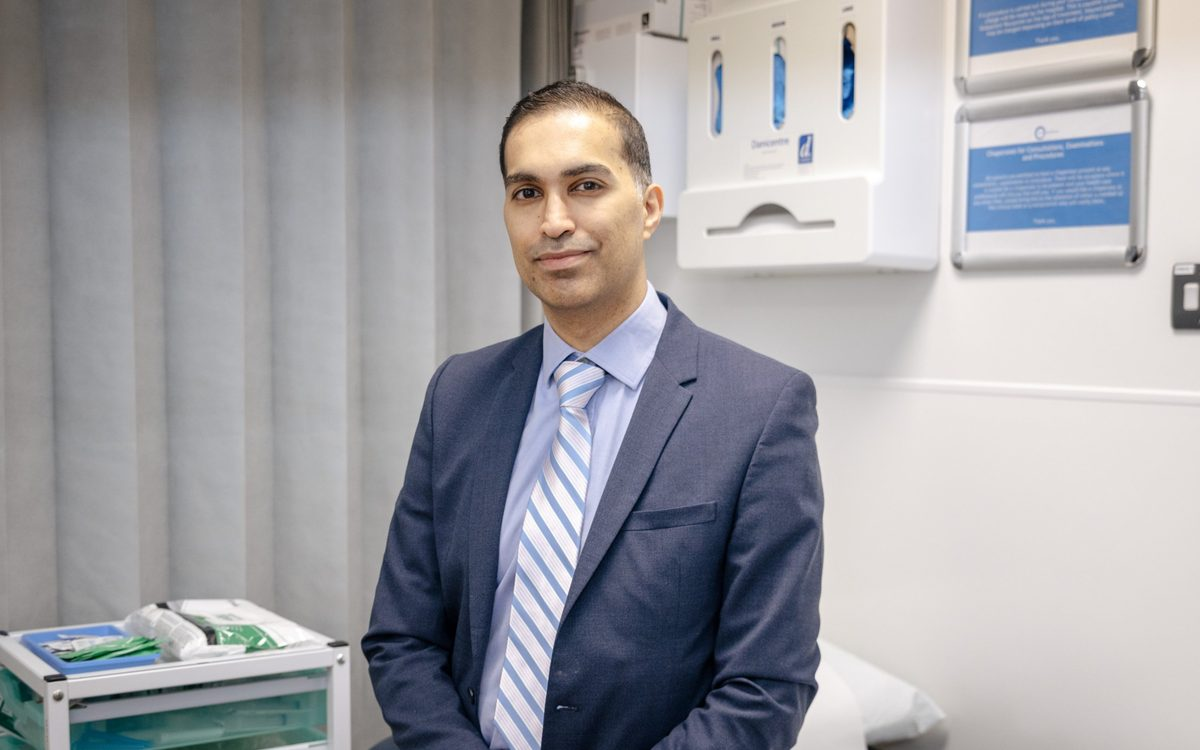
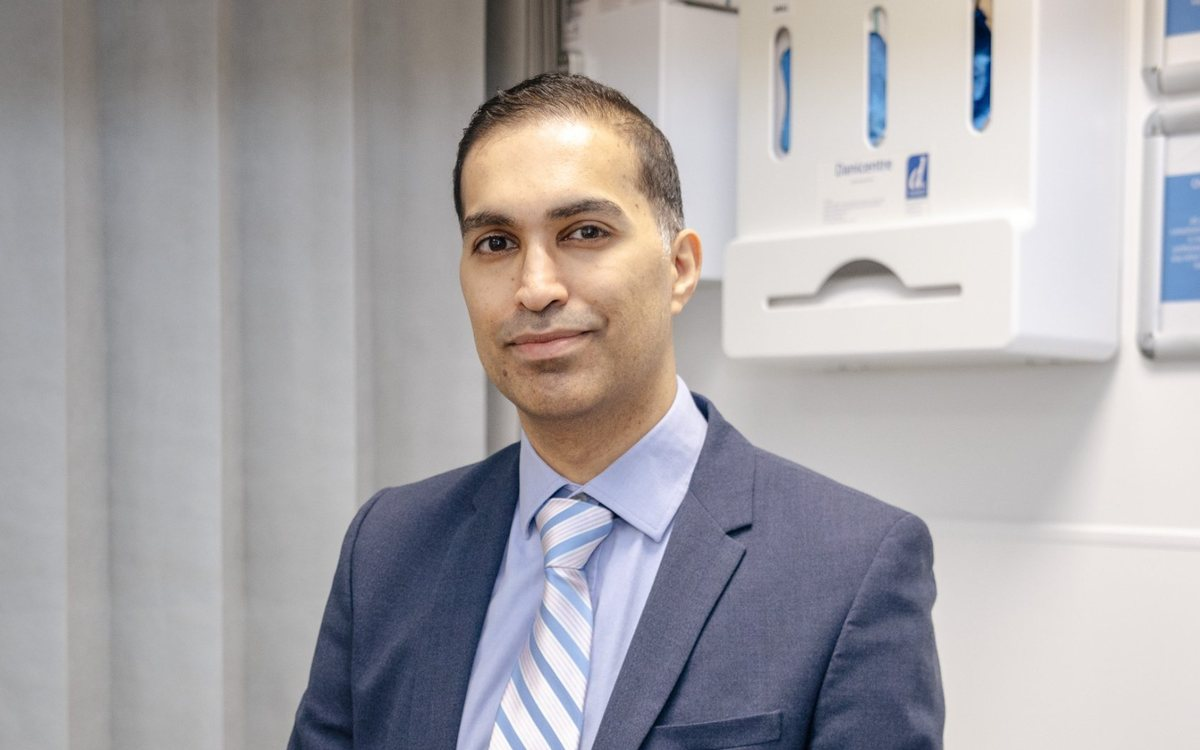
Tighter home and about photos; white WhatsApp badge in footer
Claude-Session: https://claude.ai/code/session_01Qj9Me5qhcF2y9SeBomMYBH

diff --git a/farah/index.html b/farah/index.html
@@ -194,7 +194,7 @@
         <strong>Appointments</strong>
         <span>Farah Baig, Practice Manager</span>
         <a class="with-ico" href="tel:+447446098133"><svg class="ico" viewBox="0 0 24 24" aria-hidden="true"><rect x="7" y="2.5" width="10" height="19" rx="2.2" fill="none" stroke="currentColor" stroke-width="1.8"/><circle cx="12" cy="18.2" r="1" fill="currentColor"/></svg>07446 098133</a>
-        <a class="wa-btn" href="https://wa.me/447446098133" target="_blank" rel="noopener"><img src="../assets/whatsapp-chat.svg" alt="Chat on WhatsApp with Farah" width="189" height="40" loading="lazy"></a>
+        <a class="wa-btn" href="https://wa.me/447446098133" target="_blank" rel="noopener"><img src="../assets/whatsapp-chat-white.svg" alt="Chat on WhatsApp with Farah" width="189" height="40" loading="lazy"></a>
         <a class="with-ico" href="mailto:farahbaig@protonmail.com"><svg class="ico" viewBox="0 0 24 24" aria-hidden="true"><rect x="3" y="5.5" width="18" height="13" rx="2" fill="none" stroke="currentColor" stroke-width="1.8"/><path d="M4 7.5l8 6 8-6" fill="none" stroke="currentColor" stroke-width="1.8" stroke-linejoin="round"/></svg>farahbaig@protonmail.com</a>
         <a href="../book.html#request">Request an appointment</a>
       </div>

diff --git a/louise/index.html b/louise/index.html
@@ -194,7 +194,7 @@
         <strong>Appointments</strong>
         <span>Farah Baig, Practice Manager</span>
         <a class="with-ico" href="tel:+447446098133"><svg class="ico" viewBox="0 0 24 24" aria-hidden="true"><rect x="7" y="2.5" width="10" height="19" rx="2.2" fill="none" stroke="currentColor" stroke-width="1.8"/><circle cx="12" cy="18.2" r="1" fill="currentColor"/></svg>07446 098133</a>
-        <a class="wa-btn" href="https://wa.me/447446098133" target="_blank" rel="noopener"><img src="../assets/whatsapp-chat.svg" alt="Chat on WhatsApp with Farah" width="189" height="40" loading="lazy"></a>
+        <a class="wa-btn" href="https://wa.me/447446098133" target="_blank" rel="noopener"><img src="../assets/whatsapp-chat-white.svg" alt="Chat on WhatsApp with Farah" width="189" height="40" loading="lazy"></a>
         <a class="with-ico" href="mailto:farahbaig@protonmail.com"><svg class="ico" viewBox="0 0 24 24" aria-hidden="true"><rect x="3" y="5.5" width="18" height="13" rx="2" fill="none" stroke="currentColor" stroke-width="1.8"/><path d="M4 7.5l8 6 8-6" fill="none" stroke="currentColor" stroke-width="1.8" stroke-linejoin="round"/></svg>farahbaig@protonmail.com</a>
         <a href="../book.html#request">Request an appointment</a>
       </div>

diff --git a/zara/index.html b/zara/index.html
@@ -194,7 +194,7 @@
         <strong>Appointments</strong>
         <span>Farah Baig, Practice Manager</span>
         <a class="with-ico" href="tel:+447446098133"><svg class="ico" viewBox="0 0 24 24" aria-hidden="true"><rect x="7" y="2.5" width="10" height="19" rx="2.2" fill="none" stroke="currentColor" stroke-width="1.8"/><circle cx="12" cy="18.2" r="1" fill="currentColor"/></svg>07446 098133</a>
-        <a class="wa-btn" href="https://wa.me/447446098133" target="_blank" rel="noopener"><img src="../assets/whatsapp-chat.svg" alt="Chat on WhatsApp with Farah" width="189" height="40" loading="lazy"></a>
+        <a class="wa-btn" href="https://wa.me/447446098133" target="_blank" rel="noopener"><img src="../assets/whatsapp-chat-white.svg" alt="Chat on WhatsApp with Farah" width="189" height="40" loading="lazy"></a>
         <a class="with-ico" href="mailto:farahbaig@protonmail.com"><svg class="ico" viewBox="0 0 24 24" aria-hidden="true"><rect x="3" y="5.5" width="18" height="13" rx="2" fill="none" stroke="currentColor" stroke-width="1.8"/><path d="M4 7.5l8 6 8-6" fill="none" stroke="currentColor" stroke-width="1.8" stroke-linejoin="round"/></svg>farahbaig@protonmail.com</a>
         <a href="../book.html#request">Request an appointment</a>
       </div>

diff --git a/about.html b/about.html
@@ -130,7 +130,7 @@
         <strong>Appointments</strong>
         <span>Farah Baig, Practice Manager</span>
         <a class="with-ico" href="tel:+447446098133"><svg class="ico" viewBox="0 0 24 24" aria-hidden="true"><rect x="7" y="2.5" width="10" height="19" rx="2.2" fill="none" stroke="currentColor" stroke-width="1.8"/><circle cx="12" cy="18.2" r="1" fill="currentColor"/></svg>07446 098133</a>
-        <a class="wa-btn" href="https://wa.me/447446098133" target="_blank" rel="noopener"><img src="assets/whatsapp-chat.svg" alt="Chat on WhatsApp with Farah" width="189" height="40" loading="lazy"></a>
+        <a class="wa-btn" href="https://wa.me/447446098133" target="_blank" rel="noopener"><img src="assets/whatsapp-chat-white.svg" alt="Chat on WhatsApp with Farah" width="189" height="40" loading="lazy"></a>
         <a class="with-ico" href="mailto:farahbaig@protonmail.com"><svg class="ico" viewBox="0 0 24 24" aria-hidden="true"><rect x="3" y="5.5" width="18" height="13" rx="2" fill="none" stroke="currentColor" stroke-width="1.8"/><path d="M4 7.5l8 6 8-6" fill="none" stroke="currentColor" stroke-width="1.8" stroke-linejoin="round"/></svg>farahbaig@protonmail.com</a>
         <a href="book.html#request">Request an appointment</a>
       </div>

diff --git a/book.html b/book.html
@@ -138,7 +138,7 @@
         <strong>Appointments</strong>
         <span>Farah Baig, Practice Manager</span>
         <a class="with-ico" href="tel:+447446098133"><svg class="ico" viewBox="0 0 24 24" aria-hidden="true"><rect x="7" y="2.5" width="10" height="19" rx="2.2" fill="none" stroke="currentColor" stroke-width="1.8"/><circle cx="12" cy="18.2" r="1" fill="currentColor"/></svg>07446 098133</a>
-        <a class="wa-btn" href="https://wa.me/447446098133" target="_blank" rel="noopener"><img src="assets/whatsapp-chat.svg" alt="Chat on WhatsApp with Farah" width="189" height="40" loading="lazy"></a>
+        <a class="wa-btn" href="https://wa.me/447446098133" target="_blank" rel="noopener"><img src="assets/whatsapp-chat-white.svg" alt="Chat on WhatsApp with Farah" width="189" height="40" loading="lazy"></a>
         <a class="with-ico" href="mailto:farahbaig@protonmail.com"><svg class="ico" viewBox="0 0 24 24" aria-hidden="true"><rect x="3" y="5.5" width="18" height="13" rx="2" fill="none" stroke="currentColor" stroke-width="1.8"/><path d="M4 7.5l8 6 8-6" fill="none" stroke="currentColor" stroke-width="1.8" stroke-linejoin="round"/></svg>farahbaig@protonmail.com</a>
         <a href="book.html#request">Request an appointment</a>
       </div>

diff --git a/index.html b/index.html
@@ -205,7 +205,7 @@
         <strong>Appointments</strong>
         <span>Farah Baig, Practice Manager</span>
         <a class="with-ico" href="tel:+447446098133"><svg class="ico" viewBox="0 0 24 24" aria-hidden="true"><rect x="7" y="2.5" width="10" height="19" rx="2.2" fill="none" stroke="currentColor" stroke-width="1.8"/><circle cx="12" cy="18.2" r="1" fill="currentColor"/></svg>07446 098133</a>
-        <a class="wa-btn" href="https://wa.me/447446098133" target="_blank" rel="noopener"><img src="assets/whatsapp-chat.svg" alt="Chat on WhatsApp with Farah" width="189" height="40" loading="lazy"></a>
+        <a class="wa-btn" href="https://wa.me/447446098133" target="_blank" rel="noopener"><img src="assets/whatsapp-chat-white.svg" alt="Chat on WhatsApp with Farah" width="189" height="40" loading="lazy"></a>
         <a class="with-ico" href="mailto:farahbaig@protonmail.com"><svg class="ico" viewBox="0 0 24 24" aria-hidden="true"><rect x="3" y="5.5" width="18" height="13" rx="2" fill="none" stroke="currentColor" stroke-width="1.8"/><path d="M4 7.5l8 6 8-6" fill="none" stroke="currentColor" stroke-width="1.8" stroke-linejoin="round"/></svg>farahbaig@protonmail.com</a>
         <a href="book.html#request">Request an appointment</a>
       </div>

diff --git a/treatments.html b/treatments.html
@@ -135,7 +135,7 @@
         <strong>Appointments</strong>
         <span>Farah Baig, Practice Manager</span>
         <a class="with-ico" href="tel:+447446098133"><svg class="ico" viewBox="0 0 24 24" aria-hidden="true"><rect x="7" y="2.5" width="10" height="19" rx="2.2" fill="none" stroke="currentColor" stroke-width="1.8"/><circle cx="12" cy="18.2" r="1" fill="currentColor"/></svg>07446 098133</a>
-        <a class="wa-btn" href="https://wa.me/447446098133" target="_blank" rel="noopener"><img src="assets/whatsapp-chat.svg" alt="Chat on WhatsApp with Farah" width="189" height="40" loading="lazy"></a>
+        <a class="wa-btn" href="https://wa.me/447446098133" target="_blank" rel="noopener"><img src="assets/whatsapp-chat-white.svg" alt="Chat on WhatsApp with Farah" width="189" height="40" loading="lazy"></a>
         <a class="with-ico" href="mailto:farahbaig@protonmail.com"><svg class="ico" viewBox="0 0 24 24" aria-hidden="true"><rect x="3" y="5.5" width="18" height="13" rx="2" fill="none" stroke="currentColor" stroke-width="1.8"/><path d="M4 7.5l8 6 8-6" fill="none" stroke="currentColor" stroke-width="1.8" stroke-linejoin="round"/></svg>farahbaig@protonmail.com</a>
         <a href="book.html#request">Request an appointment</a>
       </div>

diff --git a/locations.html b/locations.html
@@ -77,7 +77,7 @@
         <strong>Appointments</strong>
         <span>Farah Baig, Practice Manager</span>
         <a class="with-ico" href="tel:+447446098133"><svg class="ico" viewBox="0 0 24 24" aria-hidden="true"><rect x="7" y="2.5" width="10" height="19" rx="2.2" fill="none" stroke="currentColor" stroke-width="1.8"/><circle cx="12" cy="18.2" r="1" fill="currentColor"/></svg>07446 098133</a>
-        <a class="wa-btn" href="https://wa.me/447446098133" target="_blank" rel="noopener"><img src="assets/whatsapp-chat.svg" alt="Chat on WhatsApp with Farah" width="189" height="40" loading="lazy"></a>
+        <a class="wa-btn" href="https://wa.me/447446098133" target="_blank" rel="noopener"><img src="assets/whatsapp-chat-white.svg" alt="Chat on WhatsApp with Farah" width="189" height="40" loading="lazy"></a>
         <a class="with-ico" href="mailto:farahbaig@protonmail.com"><svg class="ico" viewBox="0 0 24 24" aria-hidden="true"><rect x="3" y="5.5" width="18" height="13" rx="2" fill="none" stroke="currentColor" stroke-width="1.8"/><path d="M4 7.5l8 6 8-6" fill="none" stroke="currentColor" stroke-width="1.8" stroke-linejoin="round"/></svg>farahbaig@protonmail.com</a>
         <a href="book.html#request">Request an appointment</a>
       </div>

diff --git a/privacy.html b/privacy.html
@@ -71,7 +71,7 @@
         <strong>Appointments</strong>
         <span>Farah Baig, Practice Manager</span>
         <a class="with-ico" href="tel:+447446098133"><svg class="ico" viewBox="0 0 24 24" aria-hidden="true"><rect x="7" y="2.5" width="10" height="19" rx="2.2" fill="none" stroke="currentColor" stroke-width="1.8"/><circle cx="12" cy="18.2" r="1" fill="currentColor"/></svg>07446 098133</a>
-        <a class="wa-btn" href="https://wa.me/447446098133" target="_blank" rel="noopener"><img src="assets/whatsapp-chat.svg" alt="Chat on WhatsApp with Farah" width="189" height="40" loading="lazy"></a>
+        <a class="wa-btn" href="https://wa.me/447446098133" target="_blank" rel="noopener"><img src="assets/whatsapp-chat-white.svg" alt="Chat on WhatsApp with Farah" width="189" height="40" loading="lazy"></a>
         <a class="with-ico" href="mailto:farahbaig@protonmail.com"><svg class="ico" viewBox="0 0 24 24" aria-hidden="true"><rect x="3" y="5.5" width="18" height="13" rx="2" fill="none" stroke="currentColor" stroke-width="1.8"/><path d="M4 7.5l8 6 8-6" fill="none" stroke="currentColor" stroke-width="1.8" stroke-linejoin="round"/></svg>farahbaig@protonmail.com</a>
         <a href="book.html#request">Request an appointment</a>
       </div>
